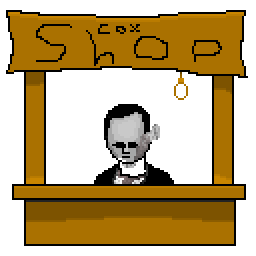
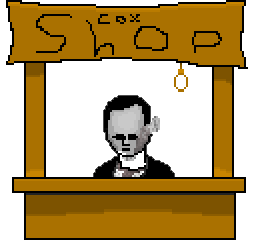
shope upd1

diff --git a/AsteroidsRaylib/src/cell.cpp b/AsteroidsRaylib/src/cell.cpp
@@ -98,6 +98,9 @@ Cell::Cell()
                 case static_cast<int>(OreTile::ForceField):
                     unitTex[i] = LoadTexture("Graphics/electric_door.png");//decor
                     break;
+                case static_cast<int>(OreTile::ShopThing):
+                    unitTex[i] = LoadTexture("Graphics/Tim.png");//decor
+                    break;
             }
         }
     }
@@ -118,22 +121,44 @@ int Cell::Draw()
             id != static_cast<int>(OreTile::Trueblood)&&
             id != static_cast<int>(OreTile::Lucasite))
         {
-            DrawTextureEx(unitTex[id - 1], {position.x + relativeTo.x, position.y + relativeTo.y}, 0, 4, color);
-            if(step != -1)//do nothing if not breaking
+            if(id == static_cast<int>(OreTile::ShopThing))
             {
-                if(step < 10)
+                DrawTextureEx(unitTex[id - 1], {position.x + relativeTo.x, position.y + relativeTo.y}, 0, 1, color);
+                if(step != -1)//do nothing if not breaking
                 {
-                    DrawTextureEx(unitTex[(int)(ceilf(step/5)+4)], {position.x + relativeTo.x, position.y + relativeTo.y}, 0, 4, color);
-                    return 0;
+                    if(step < 10)
+                    {
+                        DrawTextureEx(unitTex[(int)(ceilf(step/5)+4)], {position.x + relativeTo.x, position.y + relativeTo.y}, 0, 4, color);
+                        return 0;
+                    }
+                    else
+                    {
+                        isActiveAndEnabled = false;
+                        return 1;
+                    }
                 }
                 else
-                {
-                    isActiveAndEnabled = false;
-                    return 1;
-                }
+                    return 2;
             }
             else
-                return 2;
+            {
+                DrawTextureEx(unitTex[id - 1], {position.x + relativeTo.x, position.y + relativeTo.y}, 0, 4, color);
+                if(step != -1)//do nothing if not breaking
+                {
+                    if(step < 10)
+                    {
+                        DrawTextureEx(unitTex[(int)(ceilf(step/5)+4)], {position.x + relativeTo.x, position.y + relativeTo.y}, 0, 4, color);
+                        return 0;
+                    }
+                    else
+                    {
+                        isActiveAndEnabled = false;
+                        return 1;
+                    }
+                }
+                else
+                    return 2;
+            }
         }
         else
         {
@@ -160,7 +185,7 @@ int Cell::Draw()
 }
 void Cell::DrawOutlines()
 {
-    if(isActiveAndEnabled && drawOutline)
+    if(isActiveAndEnabled && drawOutline && id != static_cast<int>(OreTile::ShopThing))
     {
         switch(outlineId)
         {
@@ -193,7 +218,12 @@ Rectangle Cell::GetCollider()//world position
         id != static_cast<int>(OreTile::Maxium)&&
         id != static_cast<int>(OreTile::Trueblood)&&
         id != static_cast<int>(OreTile::Lucasite))
-        return {position.x + relativeTo.x, position.y + relativeTo.y, (float)GetUnitSize().x, (float)GetUnitSize().y};
+    {
+        if(id != static_cast<int>(OreTile::ShopThing))
+            return {position.x + relativeTo.x, position.y + relativeTo.y, (float)GetUnitSize().x, (float)GetUnitSize().y};
+        else
+            return {position.x + relativeTo.x, position.y + relativeTo.y, (float)GetUnitSize().x/4, (float)GetUnitSize().y/4};
+    }
     else
         return {position.x + relativeTo.x, position.y + relativeTo.y, (float)GetUnitSize().x/8, (float)GetUnitSize().y/8};
 }

diff --git a/AsteroidsRaylib/src/manager.cpp b/AsteroidsRaylib/src/manager.cpp
@@ -11,6 +11,7 @@ Manager::Manager()
 void Manager::Start()
 {
 
+    shop=Shope();
     // jumpscare = true;
 
     widePutinWalkingAnim.animation = LoadImageAnim("Graphics/wide_putin_walking.gif", &widePutinWalkingAnim.frames);
@@ -108,6 +109,8 @@ void Manager::Draw()
     string str = "Cash: " + to_string(Money);
     DrawTextEx(font ,str.c_str(), {0,120}, 30, 3,YELLOW);
     
+    shop.draw();
+
     computerUI.Draw();//draw computer ui if enabled
     // Vector2 mouseNormalized = Vector2Scale(Vector2Normalize(mouse.position), maxMineDist * 48);//normalixed mouse pos
     DrawMouseCursor();
@@ -223,6 +226,10 @@ void Manager::Update()
         // }
     }
 
+    if(IsKeyPressed(KEY_ENTER)){
+        shop.shopActive=false;
+    }
+
     if(IsKeyPressed(KEY_F1))
     {
         showDebug = !showDebug;//toggle debug
@@ -243,7 +250,7 @@ void Manager::Update()
             //ChangeScene(1);//starship
             Money +=10;
     }
-    if (IsKeyPressed(KEY_B)&&showDebug){
+    if (IsKeyPressedRepeat(KEY_B)&&showDebug){
             Money +=10;
         }
     if(IsKeyPressed(KEY_KP_1)&&showDebug)//debug switch to default pick
@@ -332,6 +339,11 @@ void Manager::Update()
                                 cout << "Toggled computer screen" << endl;
                                 // ToggleComputerScreen();
                                 computerUI.isActiveAndEnabled = true;//only set to true, enter to escape it
+                            }
+                             else if(static_cast<OreTile>(cell.id) == OreTile::ShopThing)//check if is computer
+                            {
+                                cout << "Toggled shop" << endl;
+                                shop.shopActive = true;
                             }
                             else if(cell.id == 16)//check if is teleporter button
                             {

diff --git a/AsteroidsRaylib/src/Shope.cpp b/AsteroidsRaylib/src/Shope.cpp
@@ -8,14 +8,14 @@ using namespace std;
 
 Texture2D Shope::sprite = {};
 
-Shope::Shope(Vector2 pos){
+Shope::Shope(){
     if(sprite.id==0){
         Image img = LoadImage("Graphics/shop.png");
         ImageResizeNN(&img, GetScreenWidth()/4, GetScreenHeight()/4);
         sprite = LoadTextureFromImage(img);
     }
 
-    backplate = {pos.x,pos.y, (float) sprite.width, (float) sprite.height};
+    backplate = {(float)GetScreenWidth()/2-sprite.width/2-300,(float)GetScreenHeight()/2-sprite.height/2-200, (float) sprite.width, (float) sprite.height};
 
     Vector2 positionOfSellButton = {backplate.x+50, backplate.y+50};
     buttons.emplace_back(ButtonSpriteTypes::SELL, positionOfSellButton);
@@ -25,8 +25,10 @@ Shope::Shope(Vector2 pos){
 }
 
 void Shope::draw(){
-    DrawTexture(sprite, backplate.x, backplate.y, WHITE);
+    if(shopActive){
+        DrawTextureEx(sprite, {backplate.x, backplate.y}, 0, 2, WHITE);
 
-    buttons[0].draw();
-    buttons[1].draw();
+        // buttons[0].draw();
+        // buttons[1].draw();   
+    }
 }

diff --git a/AsteroidsRaylib/src/structures.hpp b/AsteroidsRaylib/src/structures.hpp
@@ -85,7 +85,8 @@ enum class OreTile//maps IDs to tiles
     Andreasite = 22,
     Nathanium = 23,//just nathan
     HamOre = 24,//ham
-    ForceField = 25
+    ForceField = 25,
+    ShopThing = 26
 };
 struct MiningMission//a struct for modularly adding new missions easily
 {

diff --git a/AsteroidsRaylib/src/button.cpp b/AsteroidsRaylib/src/button.cpp
@@ -42,7 +42,7 @@ int Button::getSpriteIndex(){
 
 void Button::draw()
 {
-    DrawTexture(sprite[getSpriteIndex()],buttonArea.x,buttonArea.y,WHITE);
+    DrawTextureEx(sprite[getSpriteIndex()], {buttonArea.x,buttonArea.y}, 0, 2, WHITE);
 }
 
 void setup(){

diff --git a/AsteroidsRaylib/src/Shope.hpp b/AsteroidsRaylib/src/Shope.hpp
@@ -12,9 +12,11 @@ class Shope{
     Rectangle backplate;
 
     public:
-    Shope(Vector2 pos);
+    Shope();
     
     void update();
     void draw();
+
+    bool shopActive= false;
 
 };

diff --git a/AsteroidsRaylib/src/manager.hpp b/AsteroidsRaylib/src/manager.hpp
@@ -83,4 +83,5 @@ class Manager
         float maxMineDist = 8;//in tiles
         std::vector<Pickaxe> pickaxes;
         int Money =0;
+        Shope shop;
 };
